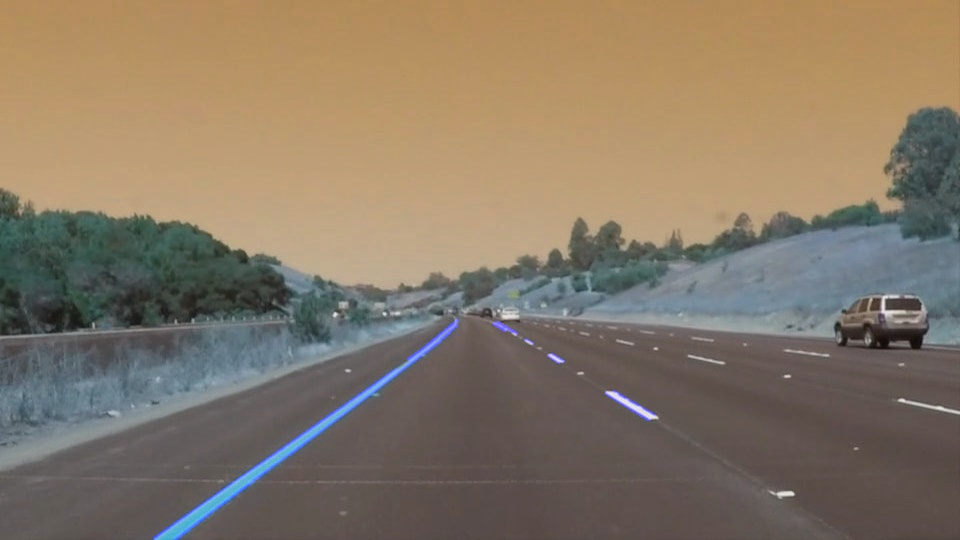
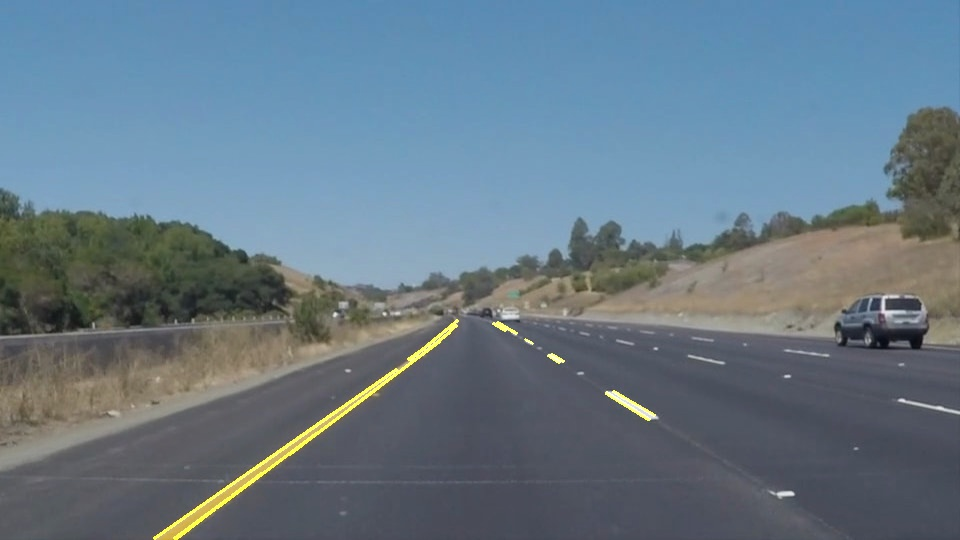
working on draw_lines

diff --git a/utils.py b/utils.py
@@ -4,6 +4,7 @@ import matplotlib.image as mpimg
 import numpy as np
 import cv2
 
+
 def grayscale(img):
     """Applies the Grayscale transform
     This will return an image with only one color channel
@@ -50,6 +51,12 @@ def region_of_interest(img, vertices):
     return masked_image
 
 
+def util_draw_line(img, lines, color):
+    for line in lines:
+        for x1, y1, x2, y2 in line:
+            cv2.line(img, (x1, y1), (x2, y2), color, 2)
+
+
 def draw_lines(img, lines, color=[255, 0, 0], thickness=2):
     """
     NOTE: this is the function you might want to use as a starting point once you want to
@@ -67,9 +74,43 @@ def draw_lines(img, lines, color=[255, 0, 0], thickness=2):
     If you want to make the lines semi-transparent, think about combining
     this function with the weighted_img() function below
     """
+    # print(len(lines))
+    leftlines = []
+    rightlines = []
+    lc = []
+    lm = []
+    rc = []
+    rm = []
+
+    height, width, channels = img.shape
+    print(height/2)
+
     for line in lines:
         for x1, y1, x2, y2 in line:
-            cv2.line(img, (x1, y1), (x2, y2), color, thickness)
+            slope = (y2 - y1) / (x2 - x1)
+            center = [(x1 + x2) / 2, (y1 + y2) / 2]
+
+            if slope < 0 and slope > -2:
+                lc.append(center)
+                lm.append(slope)
+                leftlines.append(line)
+            else:
+                if slope > 0 and slope < 2:
+                    rightlines.append(line)
+                    rc.append(center)
+                    rm.append(slope)
+
+    util_draw_line(img, leftlines, [255, 0, 0])
+    util_draw_line(img, rightlines, [255, 255, 0])
+
+    r_slope = np.sum(rm) / len(rm)
+    l_slope = np.sum(lm) / len(lm)
+
+    l_center = np.divide(np.sum(lc, axis=0), len(lc))
+    r_center = np.divide(np.sum(rc, axis=0), len(rc))
+
+    print('left: ', l_slope, l_center)
+    print('right: ', r_slope, r_center)
 
 
 def hough_lines(img, rho, theta, threshold, min_line_len, max_line_gap):

diff --git a/main.py b/main.py
@@ -4,23 +4,27 @@ from utils import *
 
 files = os.listdir("test_images/")
 
-for file in files:
-    img = mpimg.imread("test_images/" + file)
-    gray = grayscale(img)
-    gray = gaussian_blur(gray, 3)
-    edges = canny(gray, 50, 180)
+# for file in files:
+# img = mpimg.imread("test_images/" + file)
+img = mpimg.imread("test_images/solidWhiteCurve.jpg")
+gray = grayscale(img)
+gray = gaussian_blur(gray, 3)
+edges = canny(gray, 50, 180)
 
-    imshape = img.shape
-    vertices = np.array([[(.51 * imshape[1], imshape[0] * .58), (.49 * imshape[1], imshape[0] * .58), (0, imshape[0]),
-                          (imshape[1], imshape[0])]], dtype=np.int32)
-    target = region_of_interest(edges, vertices)
+imshape = img.shape
+vertices = np.array([[(.51 * imshape[1], imshape[0] * .58), (.49 * imshape[1], imshape[0] * .58), (0, imshape[0]),
+                      (imshape[1], imshape[0])]], dtype=np.int32)
+target = region_of_interest(edges, vertices)
 
-    lines = hough_lines(target, 1, np.pi / 180, 35, 5, 2)
-    result = weighted_img(lines, img, 0.9, 1)
+lines = hough_lines(target, 1, np.pi / 180, 35, 5, 2)
+result = weighted_img(lines, img, 0.9, 1)
+r, g, b = cv2.split(result)
+result = cv2.merge((b, g, r))
 
-    cv2.imwrite("output_images/" + file, result)
+# cv2.imwrite("output_images/" + file, result)
+cv2.imwrite("output_images/solidWhiteCurve.jpg", result)
 
-    plt.imshow(result, cmap='gray')
+    # plt.imshow(result, cmap='gray')
 
-    plt.colorbar()
-    plt.show()
+    # plt.colorbar()
+    # plt.show()
